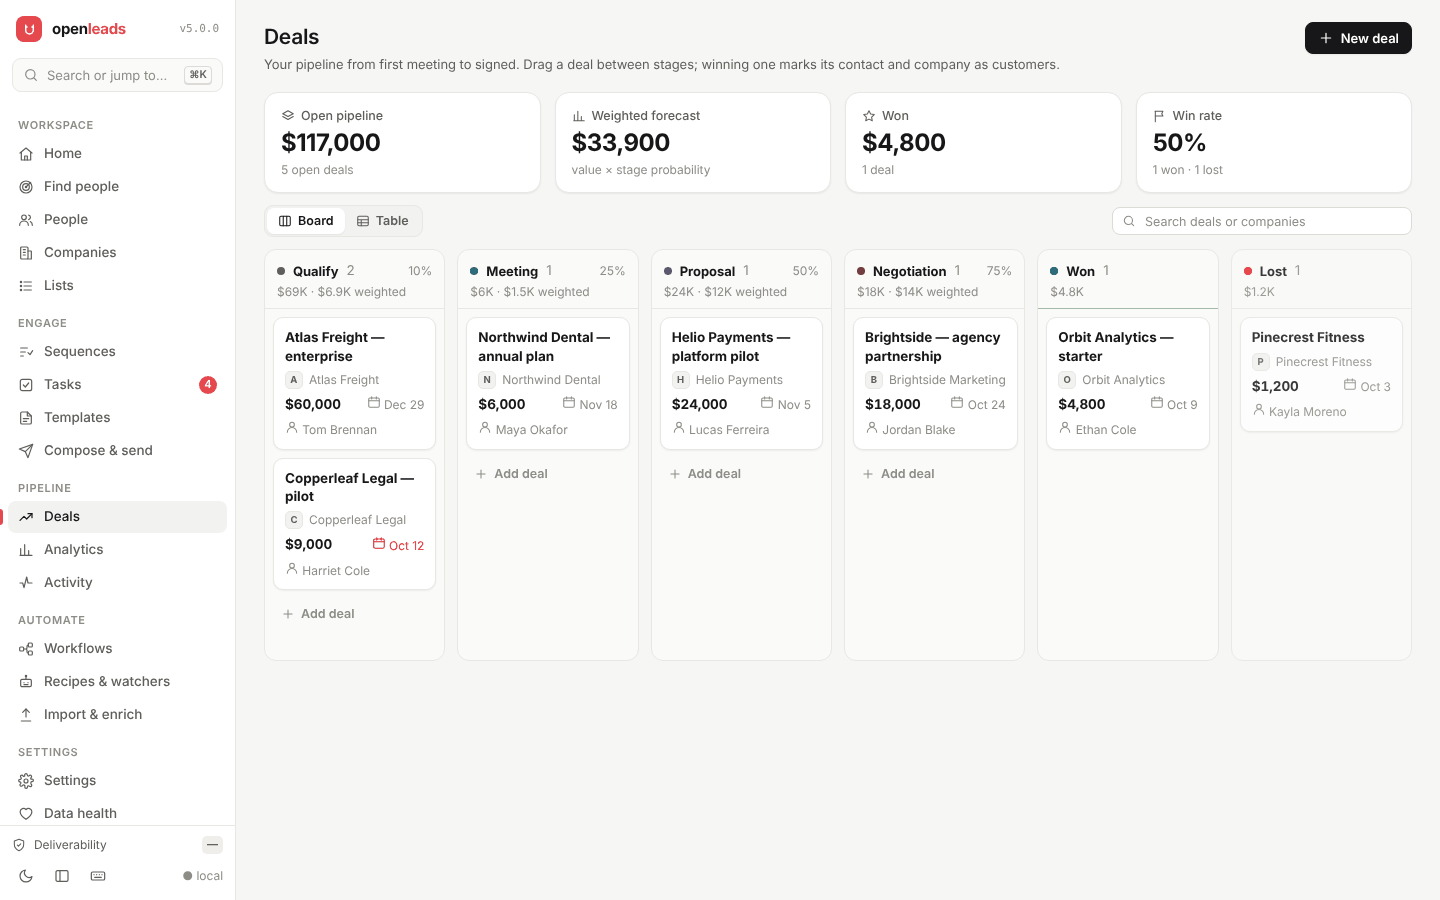
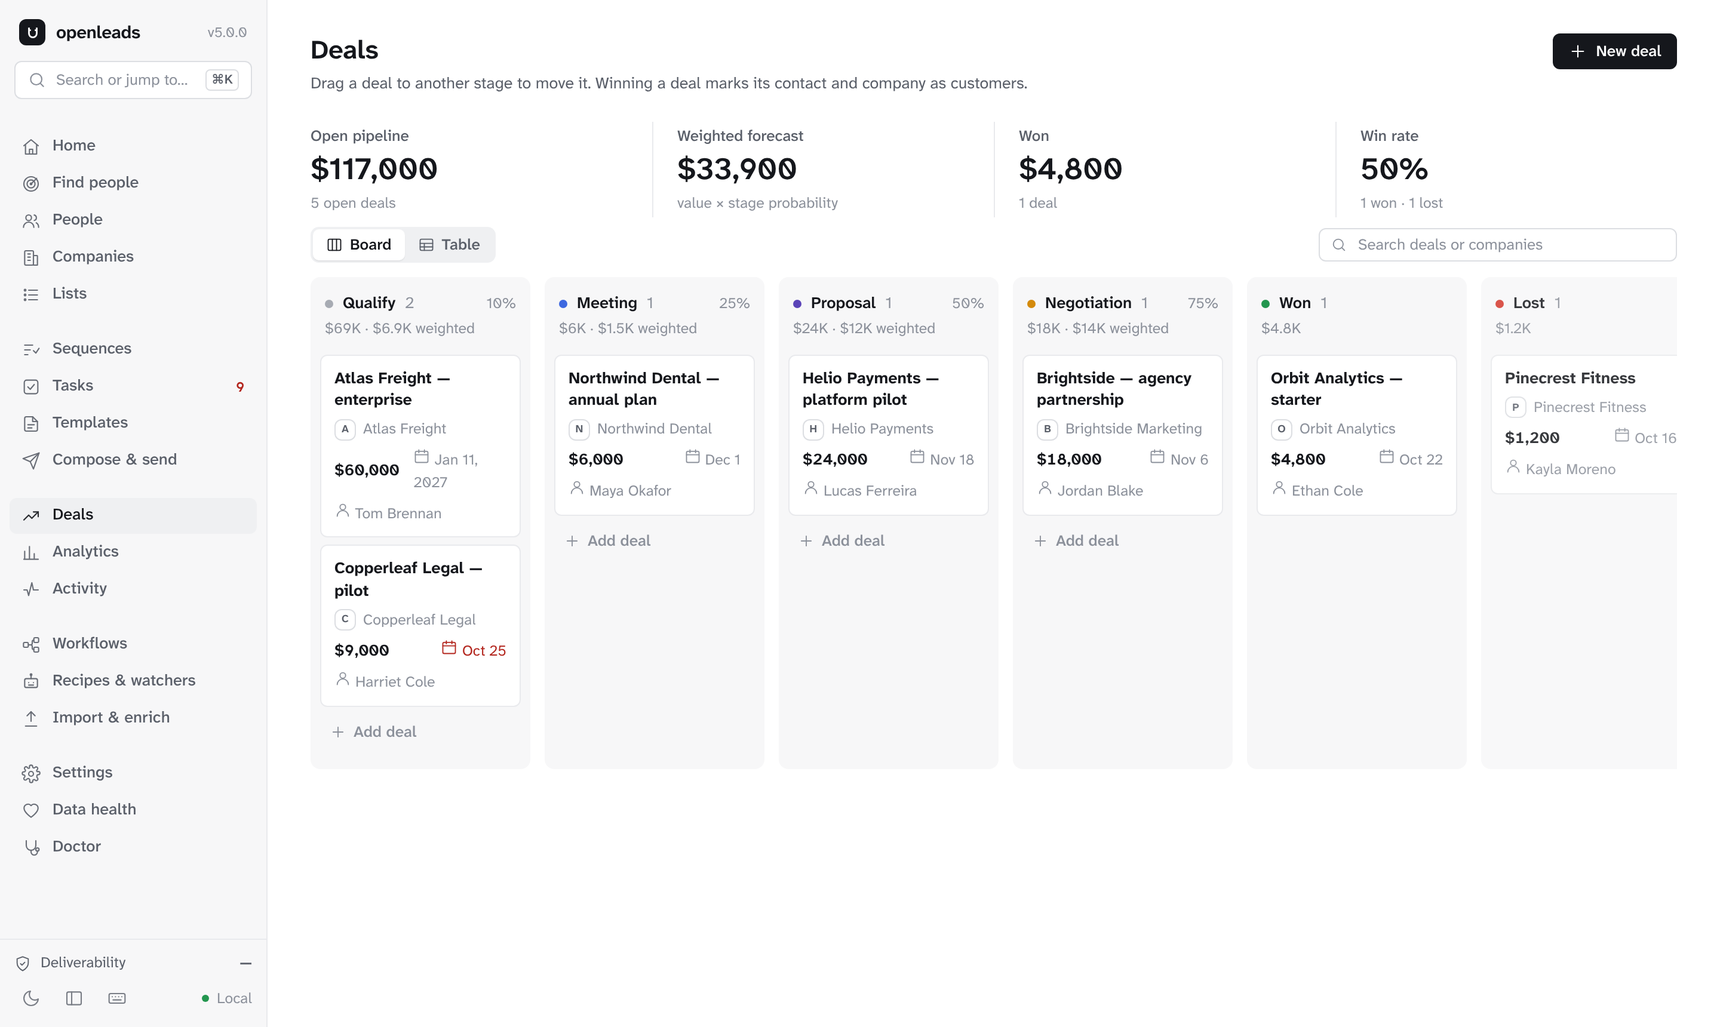
docs: new dashboard screenshots and the evidence marks
Refresh the README and docs screenshots with the redesigned dashboard,
explain how to read the evidence mark on every address, and note that
the typeface ships with the package.

Claude-Session: https://claude.ai/code/session_01XWZhpt2LHcpfxKxjvNeeeG

diff --git a/docs/web.md b/docs/web.md
@@ -23,8 +23,9 @@ running on the same engine and the same local database as the CLI.
   `openleads/web/static/` and shipped in the wheel. End users need **no
   toolchain**.
 - **No external requests from the page.** A strict same-origin
-  Content-Security-Policy blocks third-party scripts, styles and fonts. System
-  fonts, no CDN, no analytics: nothing phones home.
+  Content-Security-Policy blocks third-party scripts, styles and fonts. The
+  typeface ships inside the package, and there is no CDN and no analytics:
+  nothing phones home.
 
 ## The pages
 
@@ -76,10 +77,27 @@ CSV; start the task queue; find new people for what you typed).
 
 Shortcuts never fire while you're typing or inside a dialog.
 
+### Reading an email address
+
+Every address carries one small mark. Its **shape** says how OpenLeads knows the
+address, and its **color** says whether it will deliver:
+
+| Mark | Meaning |
+|---|---|
+| filled square | **Found**: published on the web or confirmed by the mail server |
+| half-filled square | **Pattern**: built from an address format seen at that company |
+| outlined square | **Guessed**: a common format with nothing confirming it |
+| green, amber, red | Deliverable, risky, will bounce |
+
+Hover a mark for the full reason; the contact record lists every check. The
+same marks appear in tables, records, search results and exports.
+
 ### Light and dark
 
 The interface follows your system theme; the moon/sun button (or **T**) pins one.
-It respects `prefers-reduced-motion` and works down to phone width.
+It uses Atkinson Hyperlegible, a typeface drawn so that characters like `l`, `I`
+and `1` can't be mistaken for each other, which matters when you're reading email
+addresses. It respects `prefers-reduced-motion` and works down to phone width.
 
 ## The JSON API
 
